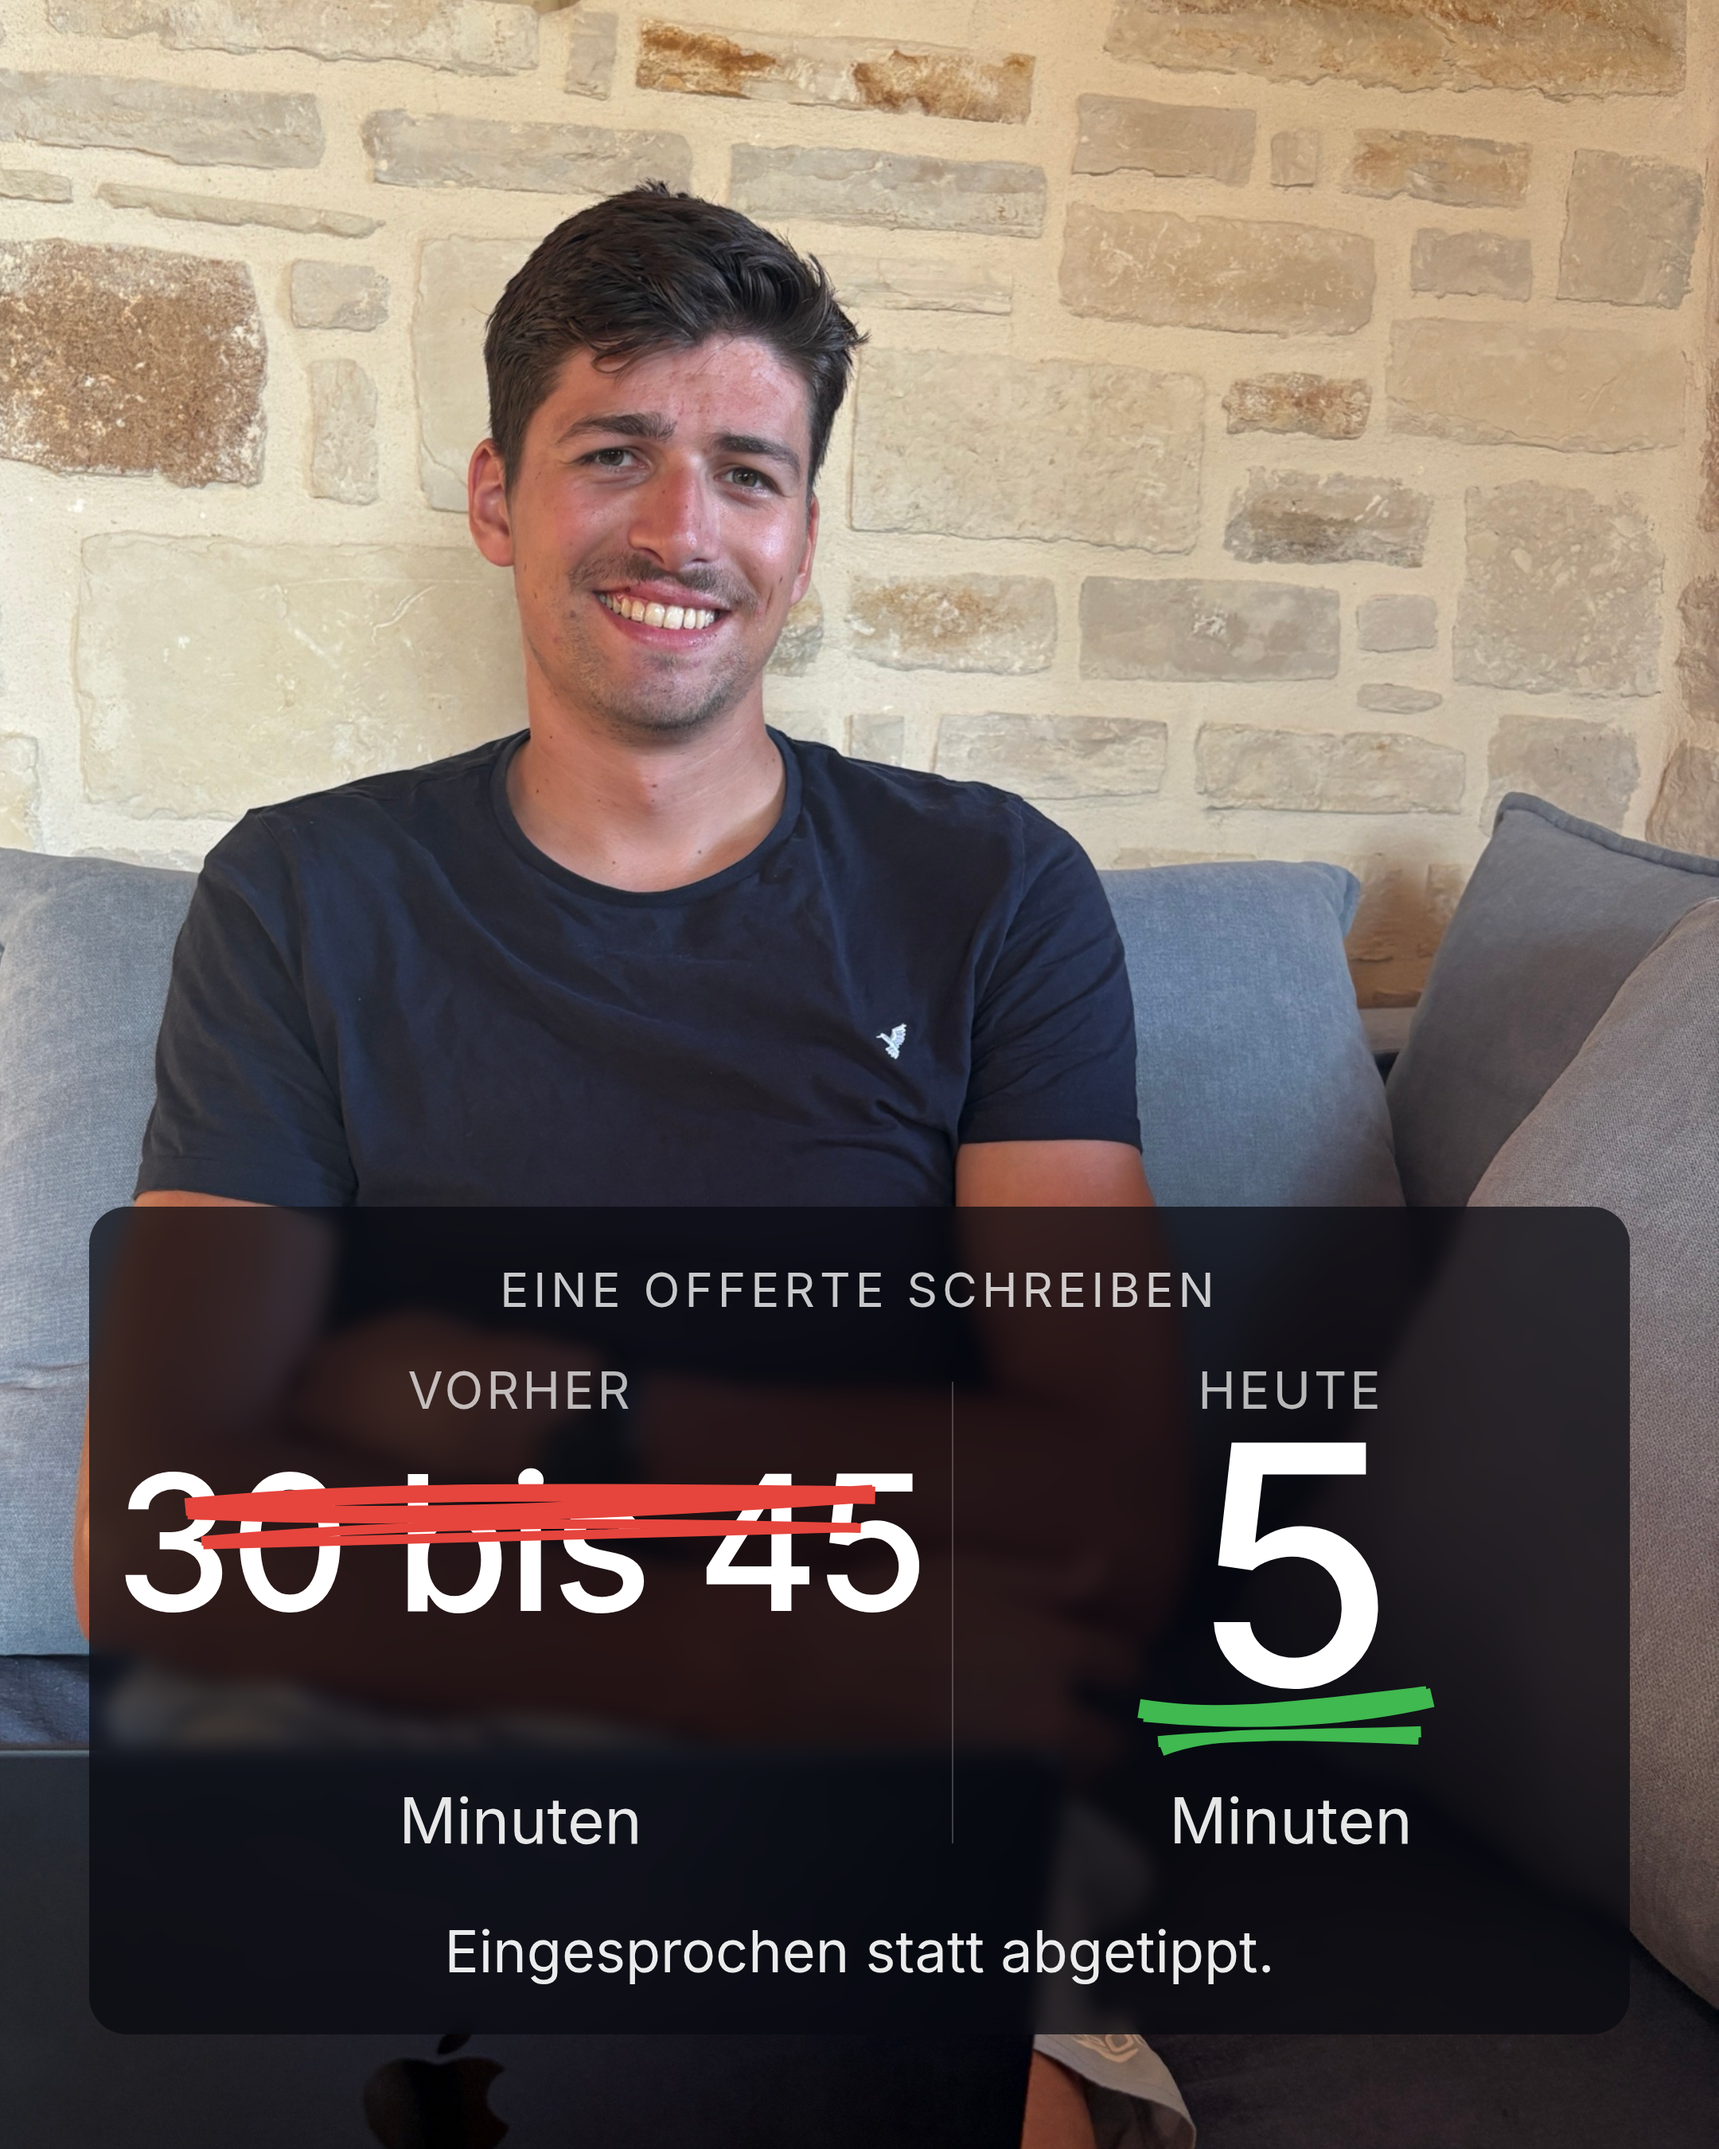
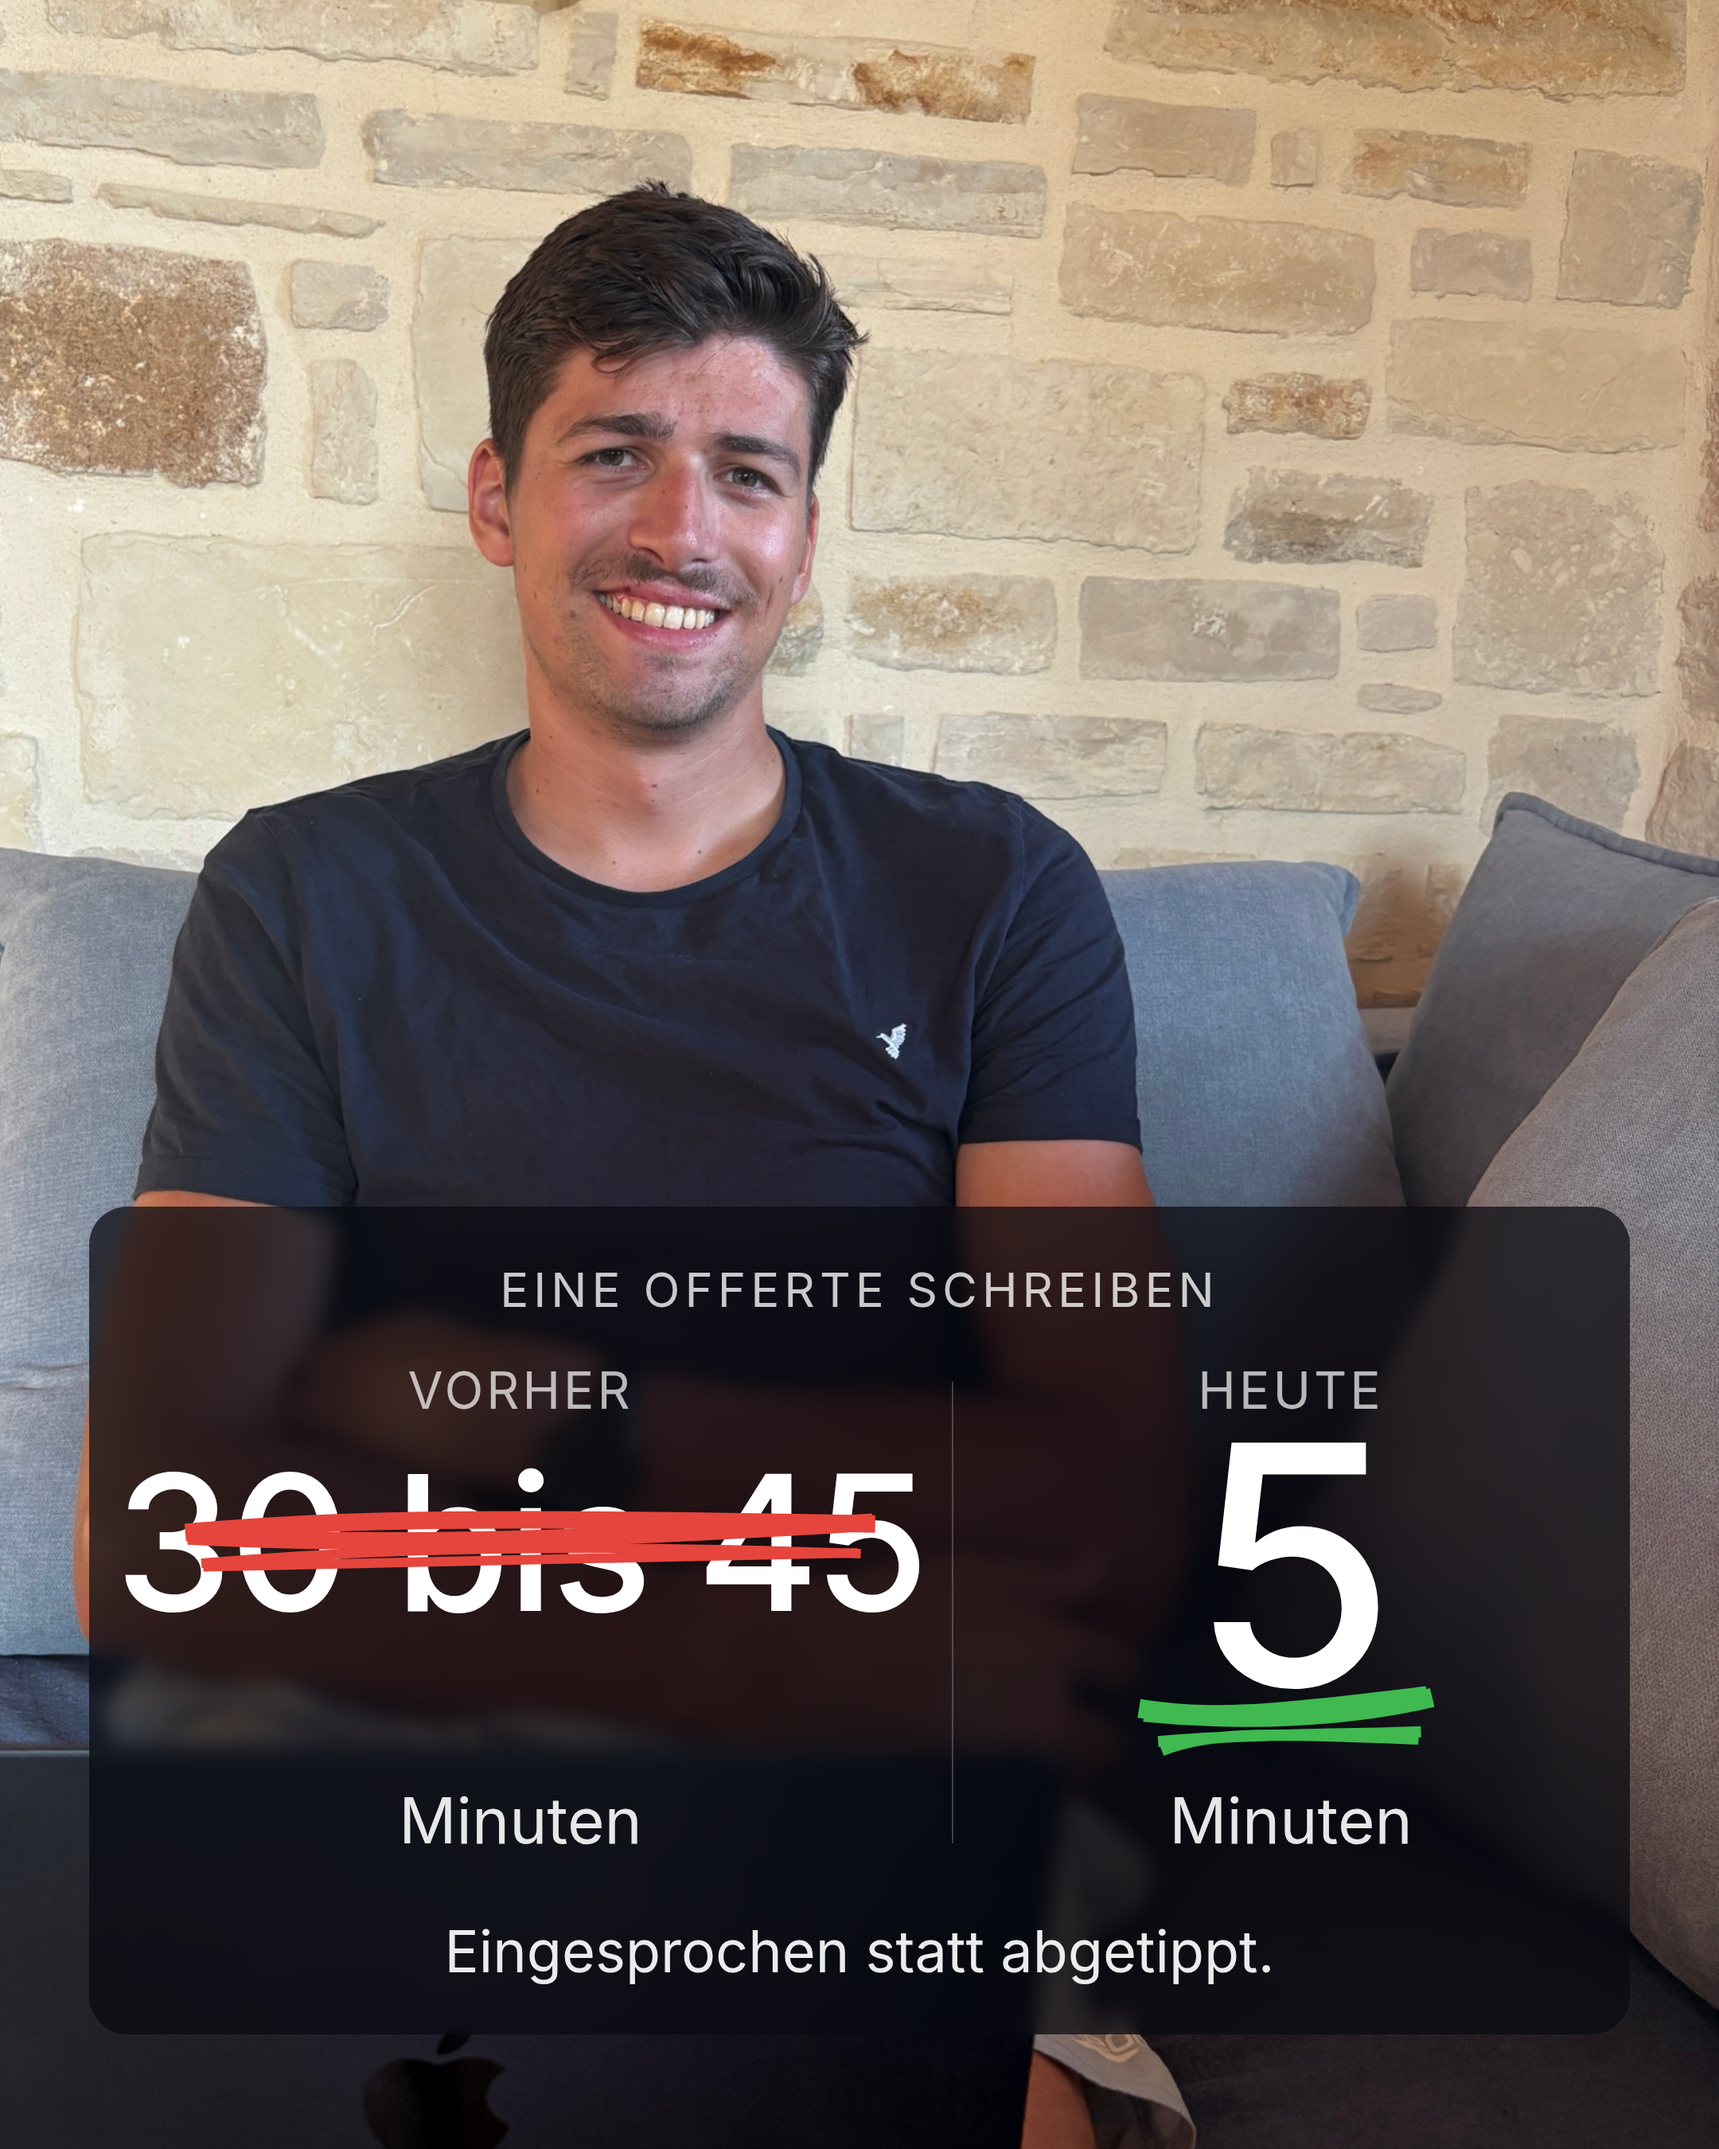
Resultat-Post-Bild: Durchstreichung mittig
Claude-Session: https://claude.ai/code/session_011uqJThEvfyZaZ27wjBcmdt

Changed region(s): [[0.0931, 0.6844, 0.5273, 0.7467]]

diff --git a/fotos/foto-offerte.html b/fotos/foto-offerte.html
@@ -36,8 +36,8 @@ svg{position:absolute;left:0;top:0;width:1080px;height:1350px;pointer-events:non
 const A=document.getElementById('a'), r=rough.svg(A);
 const o=(c,w,s)=>({stroke:c,strokeWidth:w,roughness:2.2,bowing:2.4,seed:s});
 // Panel: left 56, top 1350-72-520=758. Linke Spalte: x 56..(56+968*0.56=598), Zahl bei top 758+96+56 -> ca. y 910..1028
-A.appendChild(r.line(118,948,548,938,o('#e5453d',11,3)));
-A.appendChild(r.line(126,968,540,960,o('#e5453d',6,4)));
+A.appendChild(r.line(118,964,548,956,o('#e5453d',11,3)));
+A.appendChild(r.line(126,982,540,976,o('#e5453d',6,4)));
 // Rechte Spalte: x 598..1024, "5" ca. y 878..1088; Unterstrich darunter
 A.appendChild(r.line(720,1076,900,1068,o('#3fb950',12,7)));
 A.appendChild(r.line(728,1096,892,1090,o('#3fb950',7,8)));
